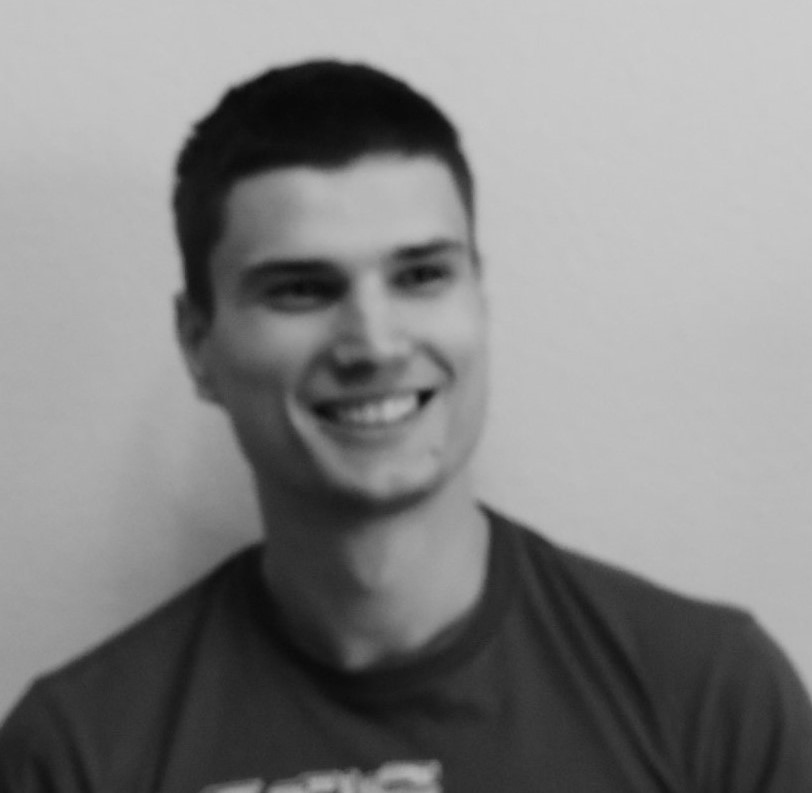
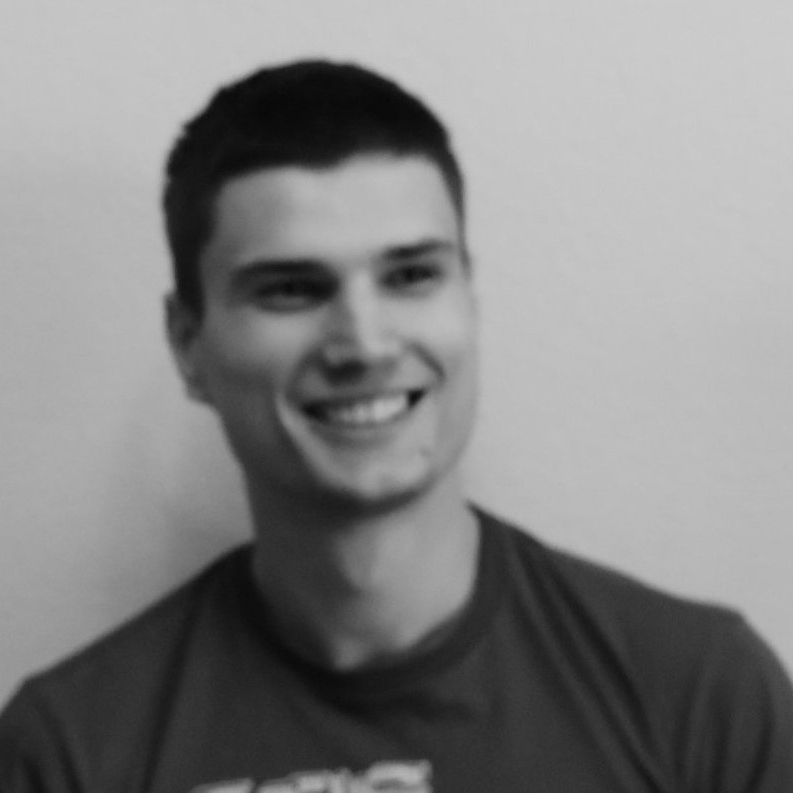
Home Page - New Section - Our Community #119

diff --git a/_scss/_banner.scss b/_scss/_banner.scss
@@ -270,8 +270,6 @@ h5 {
     max-width: 140px;
     min-width: 140px;
   }
-  margin-bottom: .75rem;
-  margin-top: 1rem;
 }
 
 .community-h2 {
@@ -287,25 +285,43 @@ h5 {
   text-align: center;
   padding-bottom: 1rem;
   font-size: .89rem;
+  margin-top: .75rem;
   @include media-breakpoint-up(sm) {
     // font-size: 1rem;
   }
+}
+.text-community .community-h5 {
+  padding-bottom: 0;
 }
 .overlay-community {
   position: absolute;
   top: 0;
   // bottom: 0;
-  left: 0;
+  // left: 0;
   // right: 0;
-  height: 100%;
-  width: 100%;
-  opacity: 0;
+  height: 100px;
+  width: 100px;
+  @include media-breakpoint-up(sm) {
+    height: 110px;
+    width: 110px;
+  }
+  @include media-breakpoint-up(md) {
+    height: 130px;
+    width: 130px;
+  }
+  @include media-breakpoint-up(lg) {
+    height: 140px;
+    width: 140px;
+  }
+  opacity: 0.5;
   transition: .5s ease;
-  background-color: #008CBA;
+  background-color: gray;
   background-color: $primary;
+  object-fit: cover;
+  border-radius: 50%;
 }
-.community-container:hover .overlay-community {
-  opacity: 1;
+.img-c-container:hover .overlay-community {
+  opacity: 0.5;
 }
 .text-community {
   color: white;
@@ -317,6 +333,9 @@ h5 {
   -ms-transform: translate(-50%, -50%);
   transform: translate(-50%, -50%);
   text-align: center;
+}
+.community-container {
+  margin-top: 1rem;
 }
 // --------------
 h5 {

diff --git a/_layouts/home.html b/_layouts/home.html
@@ -263,12 +263,15 @@ layout: default
 				<div class="row ov-template-row">
 					{% assign authors = site.authors | sort: 'index' %}
 					{% for author in authors %}
-					<div class="col-4 col-md-3 col-lg-3">
-						<div class="d-flex align-items-center justify-content-center community-container">
-							<img height="100" width="100" src="{{ site.url }}/img/about/team/{{ author.photo }}?v=2" alt="{{author.name}}"
-							class="img-fluid w-100 profile-img-home">
-							<div class="overlay-community">
-								<div class="text-community"><h5 class="community-h5">{{ author.position }}</h5></div>
+					<div class="col-4 col-md-3 col-lg-3 community-container">
+						<!-- d-flex align-items-center justify-content-center  community-container-->
+						<div class="d-flex align-items-center justify-content-center">
+							<div class="img-c-container">
+								<img height="100" width="100" src="{{ site.url }}/img/about/team/{{ author.photo }}?v=3" alt="{{author.name}}"
+								class="img-fluid w-100 profile-img-home">
+								<div class="overlay-community">
+									<div class="text-community"><h5 class="community-h5">{{ author.position }}</h5></div>
+								</div>
 							</div>
 						</div>
 
